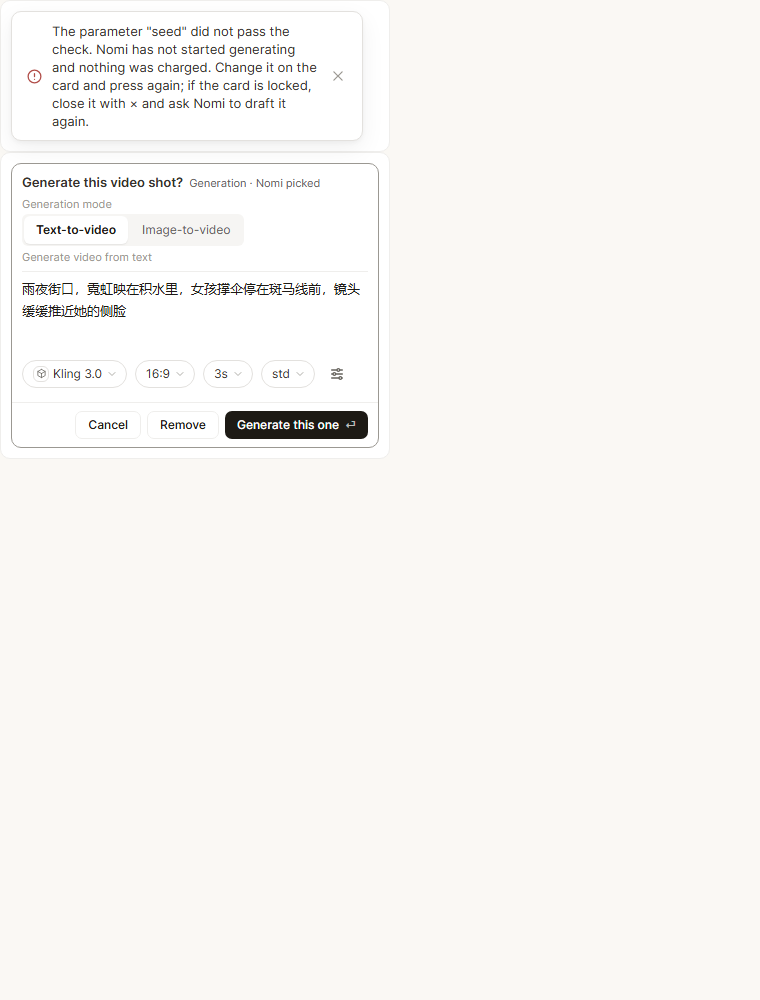
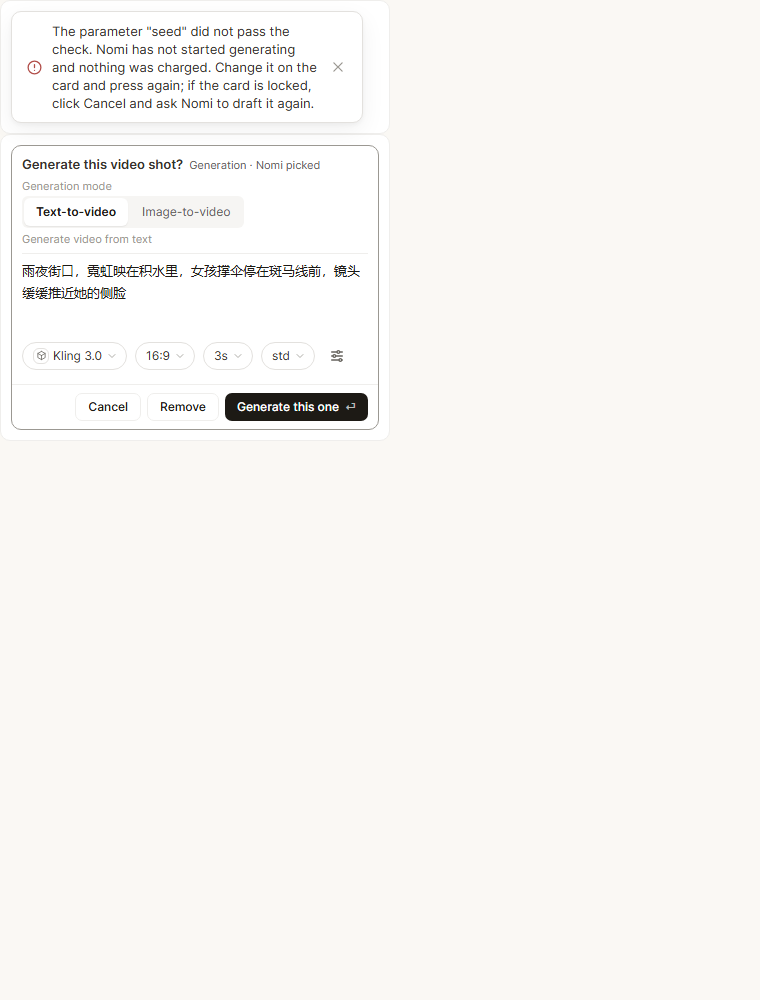
fix(i18n): 付费卡文案不再指向已删除的 ×——改成真实存在的「取消」，加守卫单测
spendActionParameterRejected 与旧的 spendActionNotStartedLocked（中英）教用户点 ×，
但付费卡的 × 在 10-07 已删，底栏是「取消」（同一个收回语义）。新增守卫：spend* 文案不许出现指向 × 的说法，
去掉修复即红。设计实验室 zh / en 截图重截并核对。

Direction-Check: docs/plan/2026-10-18-null-optional-params.md

diff --git a/src/i18n/locales/agentPanelV4.ts b/src/i18n/locales/agentPanelV4.ts
@@ -490,9 +490,9 @@ export const zhAgentPanelV4 = {
   spendActionFailed: '暂时无法确认这一步的结果，请查看任务状态后再操作。',
   spendActionNotStarted: '这一步没成，Nomi 没有开始生成。可以改一下再按一次。',
   /** 合同编译口拒了某个参数：点名是哪个键（目录里的参数名，不是原话），没发起、没花钱。 */
-  spendActionParameterRejected: '参数「{{field}}」没通过核对，Nomi 没有开始生成，也没花钱。在卡上改掉它再按；卡改不了就点 × 关掉，让 Nomi 重新起草。',
+  spendActionParameterRejected: '参数「{{field}}」没通过核对，Nomi 没有开始生成，也没花钱。在卡上改掉它再按；卡改不了就点「取消」，让 Nomi 重新起草。',
   /** 第 11 条：卡此刻改不了时不许说「改一下再按」，说改不了、该怎么办。 */
-  spendActionNotStartedLocked: '这一步没成，Nomi 没有开始生成。这张卡现在改不了：点 × 关掉，告诉 Nomi 要怎么改，它会重新起草。',
+  spendActionNotStartedLocked: '这一步没成，Nomi 没有开始生成。这张卡现在改不了：点「取消」，告诉 Nomi 要怎么改，它会重新起草。',
   /** 按下去的那一刻卡上的内容刚变了（报价换了一份）：没发起，看一眼现在的样子再按。 */
   spendActionCardChanged: '卡上的内容刚变了，Nomi 没有开始生成。看一眼现在的样子再按。',
   /** 这一张已经不在卡上（刚被决定，或卡已关掉）。 */
@@ -958,8 +958,8 @@ export const enAgentPanelV4 = {
   spendParamsDecline: 'Cancel',
   spendActionFailed: 'The outcome could not be confirmed. Check the task status before trying again.',
   spendActionNotStarted: 'That did not go through. Nomi has not started generating — adjust it and press again.',
-  spendActionParameterRejected: 'The parameter "{{field}}" did not pass the check. Nomi has not started generating and nothing was charged. Change it on the card and press again; if the card is locked, close it with × and ask Nomi to draft it again.',
-  spendActionNotStartedLocked: 'That did not go through. Nomi has not started generating. This card can\'t be changed right now: close it with × and tell Nomi what to change, and it will draft it again.',
+  spendActionParameterRejected: 'The parameter "{{field}}" did not pass the check. Nomi has not started generating and nothing was charged. Change it on the card and press again; if the card is locked, click Cancel and ask Nomi to draft it again.',
+  spendActionNotStartedLocked: 'That did not go through. Nomi has not started generating. This card can\'t be changed right now: click Cancel and tell Nomi what to change, and it will draft it again.',
   spendActionCardChanged: 'The card just changed, so Nomi has not started generating. Check what it shows now, then press again.',
   spendActionShotGone: 'This one is no longer on the card, so Nomi has not started generating it.',
   spendActionReferenceNotInProject: 'One reference image isn\'t in this project\'s assets, so Nomi hasn\'t started generating. Remove it on the card and press again, or pick it again with @ (images from other projects are copied in first).',

diff --git a/src/workbench/ai/v4/spendCardFailure.test.ts b/src/workbench/ai/v4/spendCardFailure.test.ts
@@ -66,4 +66,14 @@ describe('付费卡上一下没做成时说哪一句', () => {
       expect(text, lng).not.toContain('{{')
     }
   })
+
+  it('付费卡没有 ×（底栏是「取消」）：spend* 文案中英都不许教用户点 ×', () => {
+    const offenders: string[] = []
+    for (const [lng, locale] of [['zh-CN', zhAgentPanelV4], ['en', enAgentPanelV4]] as const) {
+      for (const [key, value] of Object.entries(locale)) {
+        if (key.startsWith('spend') && typeof value === 'string' && /(点|click|close it with|press)\s*×/i.test(value)) offenders.push(`${lng}:${key}`)
+      }
+    }
+    expect(offenders).toEqual([])
+  })
 })
